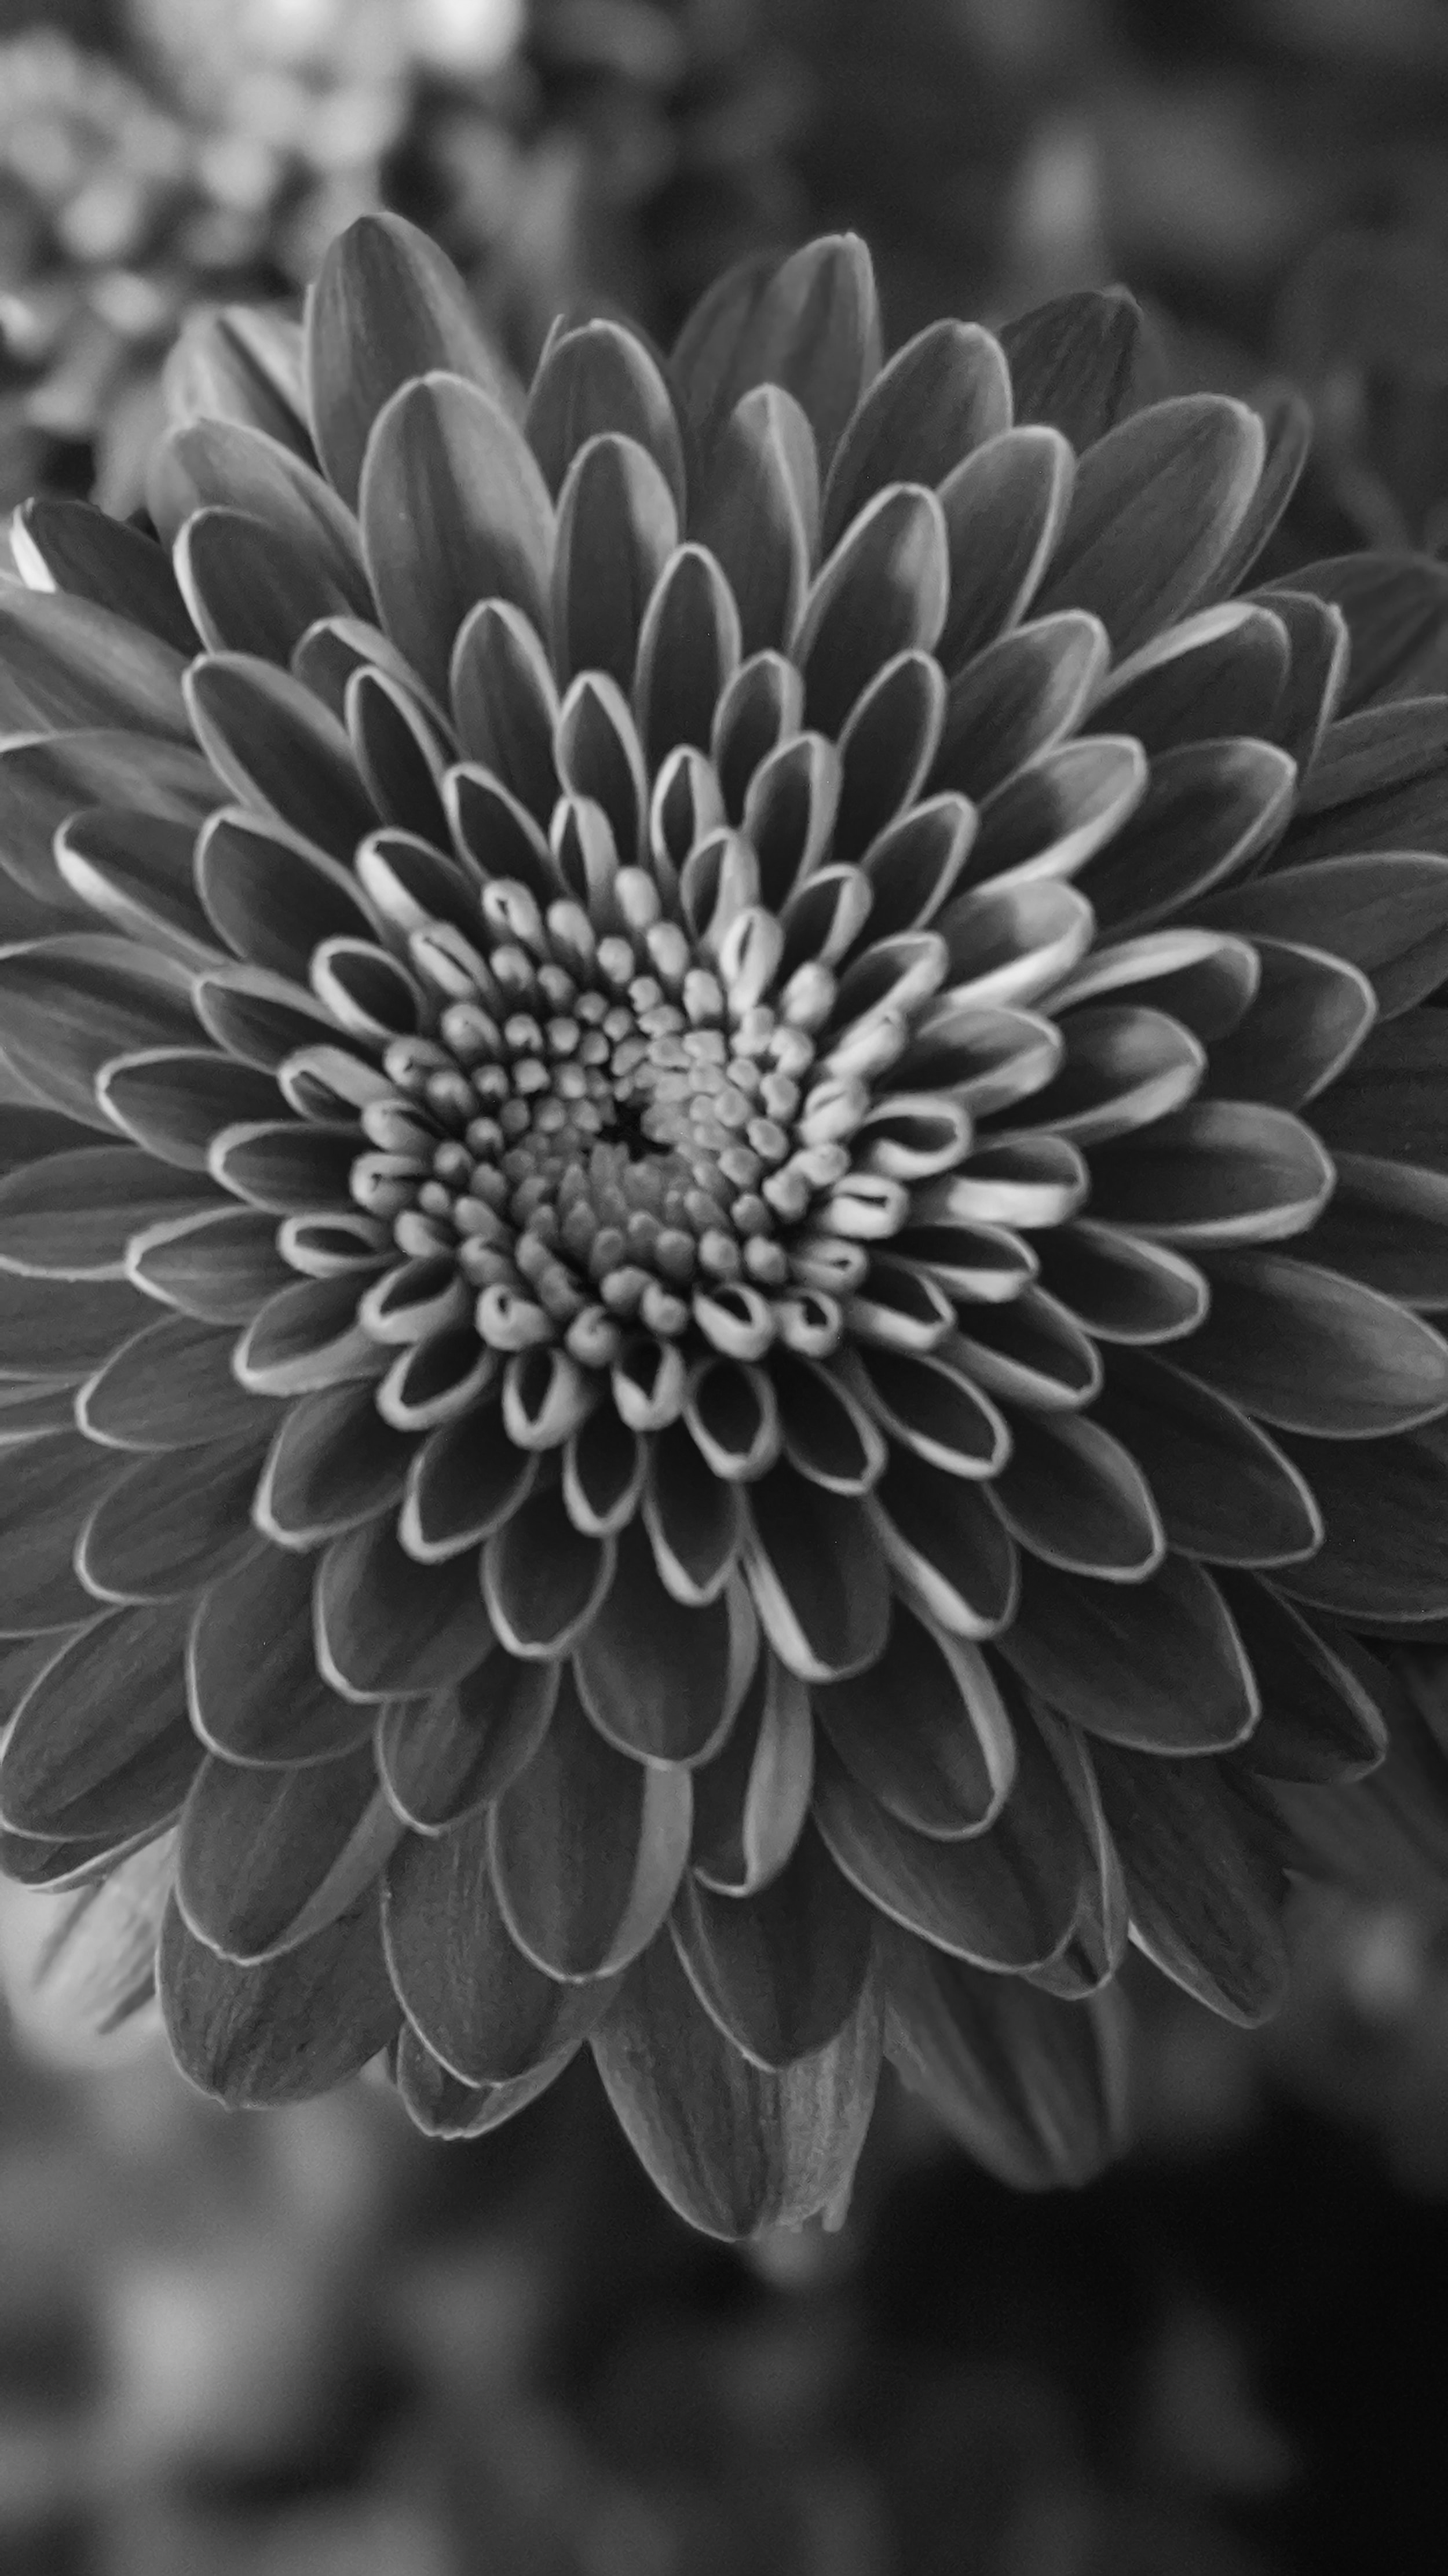
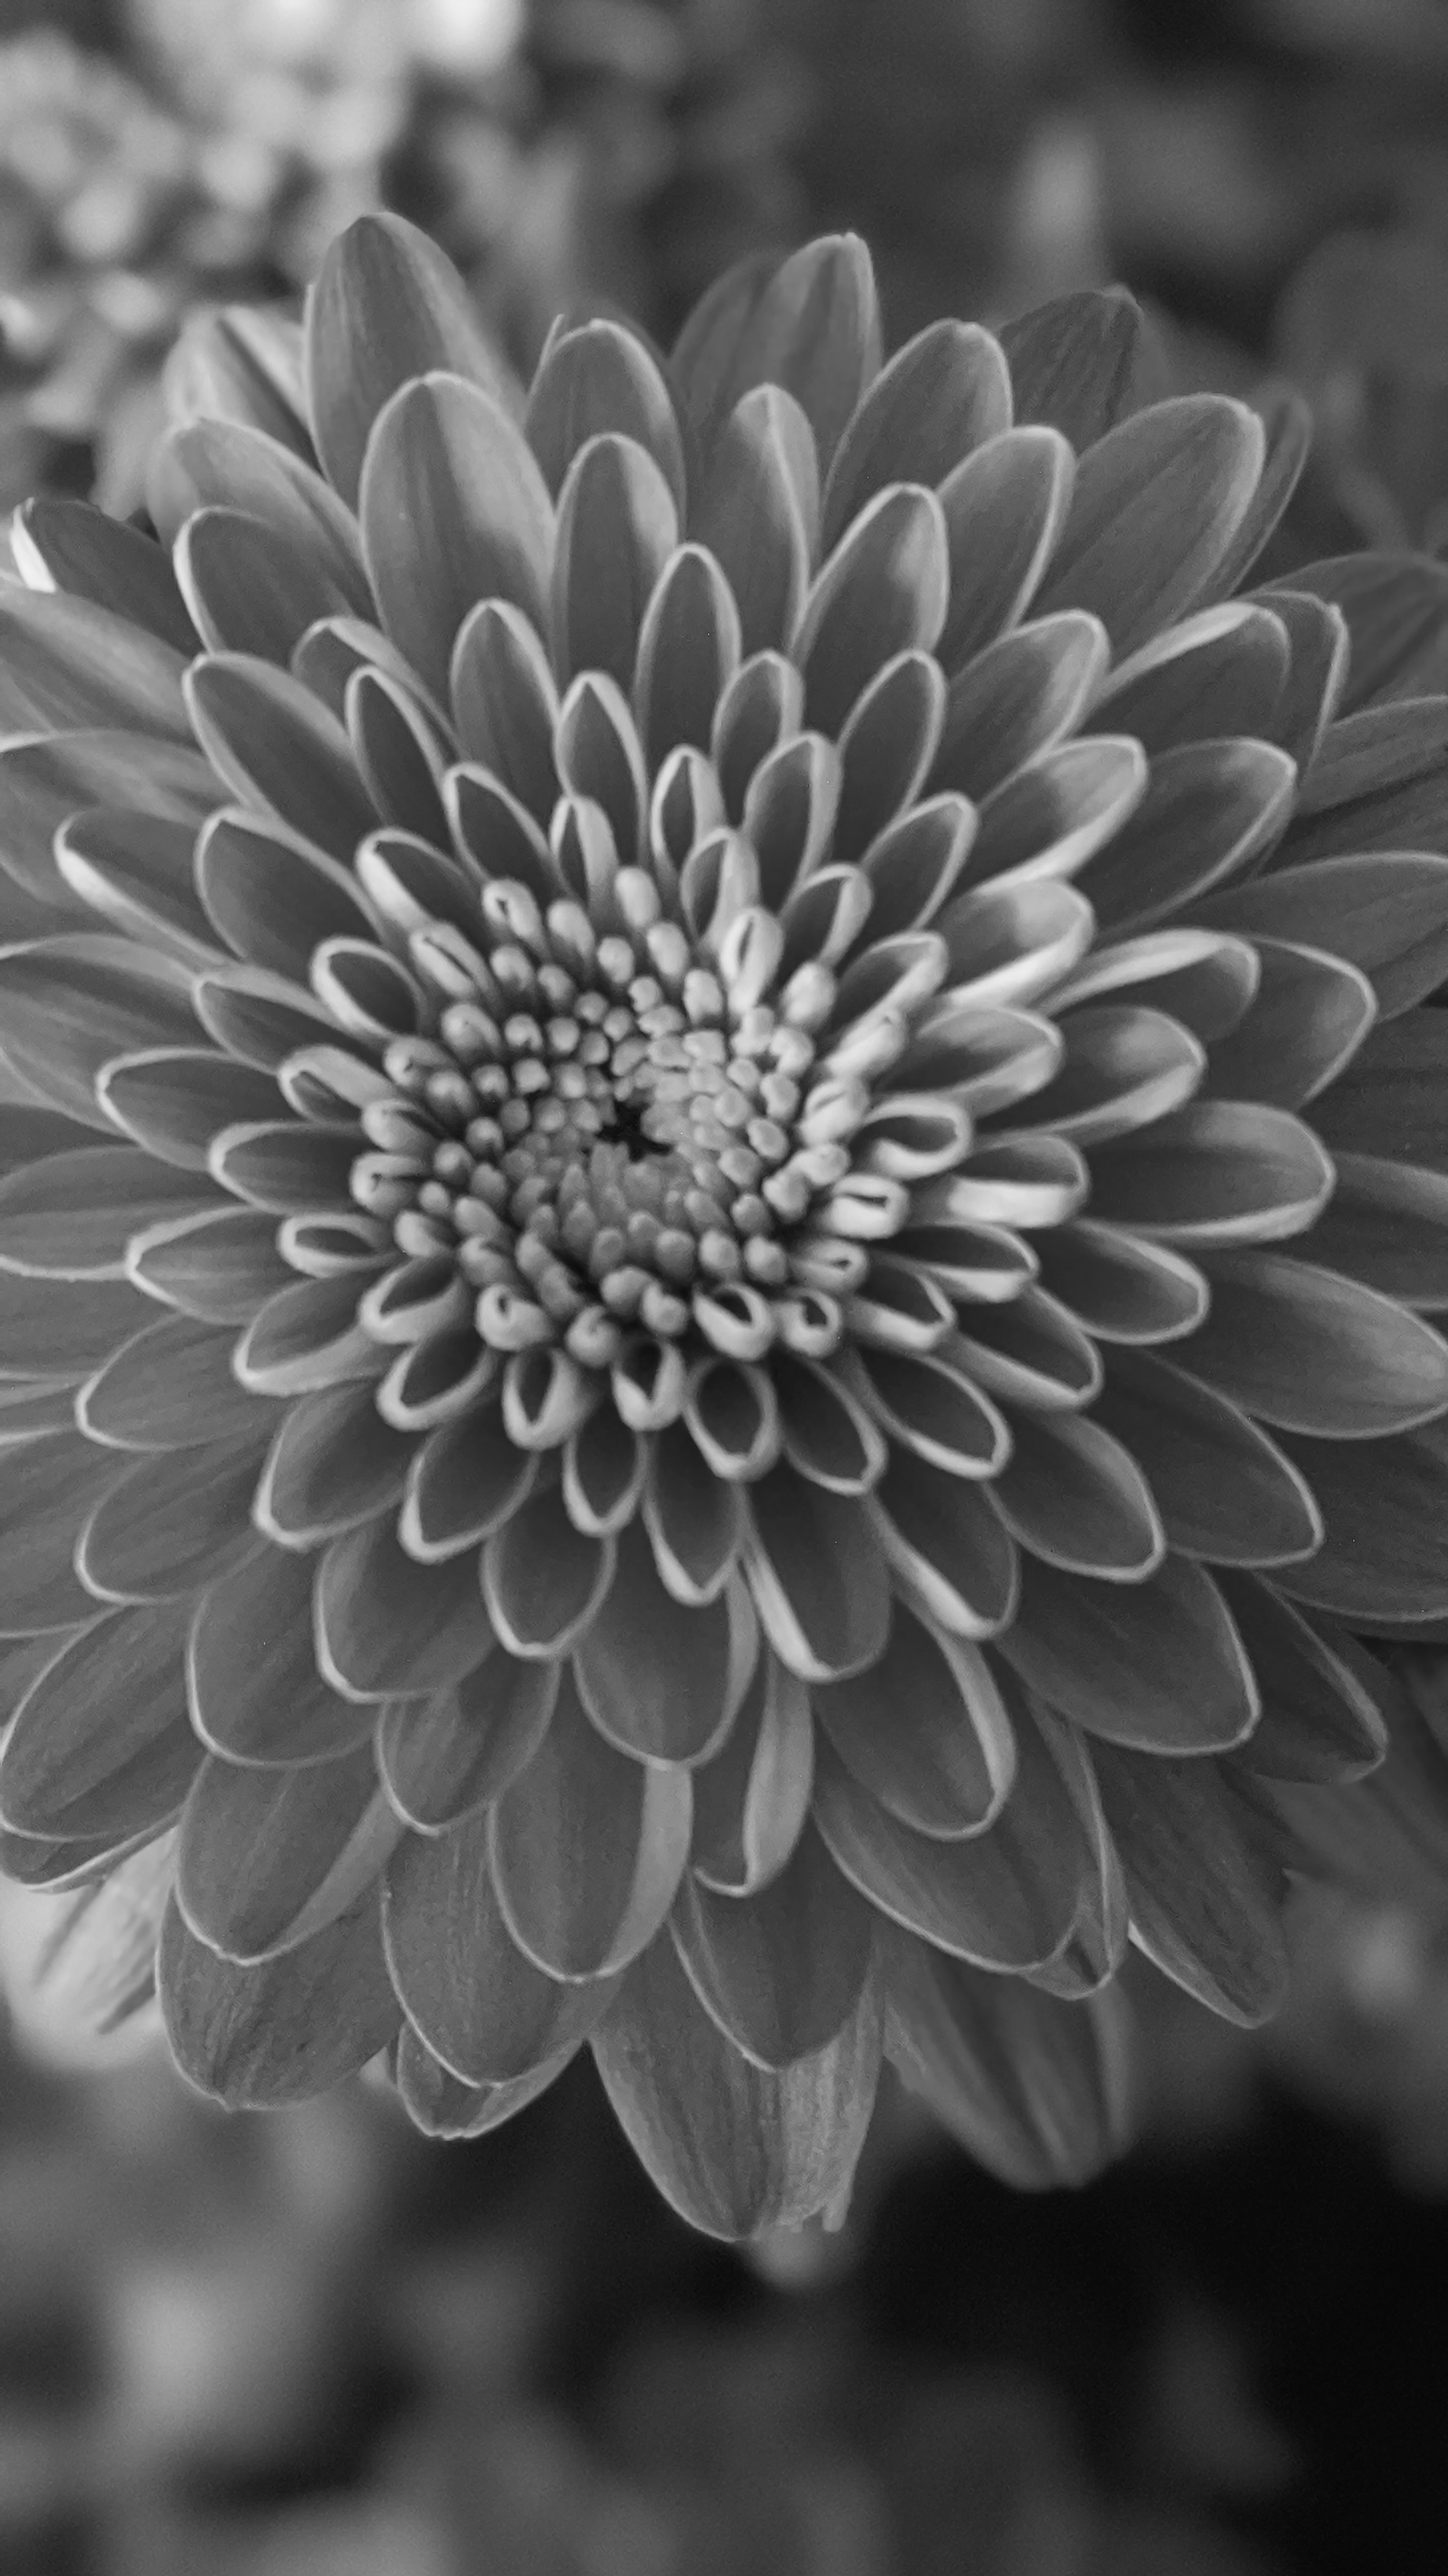
program seems to be working correctly. need to add plotting and clean up.

Changed region(s): [[0.0, 0.1242, 0.9672, 0.8382], [0.0, 0.1242, 0.0312, 0.1552]]

diff --git a/Assignment1/tograyscale.py b/Assignment1/tograyscale.py
@@ -5,18 +5,12 @@
 import sys, os, cv2, numpy
 
 def print_usage():
-    print("Usage: \n\tpython3 histmatch.py <input_dir> <output_dir>\n")
+    print("Usage: \n\tpython3 tograyscale.py <input_dir> <output_dir>\n")
     exit()
 
 def color2gray(input_dir,output_dir):
-    # check if directory exists -- done
-    # open input directory and get the list of images -- done
-    # see if output directory exists, if not create it -- done
-    # for each image:
-    # open image, convert to grayscale
-    # save image to the output directory
 
-    # add '/' to end of directory if it is not included
+    # add '/' to end of input directory if it is not included
     if not(input_dir[-1] == '/'):
         input_dir = input_dir + '/'
 
@@ -25,10 +19,12 @@ def color2gray(input_dir,output_dir):
         print("Input directory \"%s\" does not exist." %input_dir)
         print_usage()
 
+    # add '/' to end of output directory if it is not included
     if not(output_dir[-1] == '/'):
         output_dir = output_dir + '/'
 
     # if output directory does not exist, create it
+    # *** need to check for valid directory?
     if not(os.path.exists(output_dir)):
         os.makedirs(output_dir)
 
@@ -39,10 +35,11 @@ def color2gray(input_dir,output_dir):
     if len(inputFiles) == 0:
         print("No input images to convert.")
         exit()
+
+    convertedCount = 0  # number of images converted from RGB to grayscale
     
     # loop through files in the directory
     for fileName in inputFiles:
-        print("Image: " + input_dir + fileName)
         # check if the file is an image by trying to read it
         try:
             # docs: https://docs.opencv.org/4.2.0/d4/da8/group__imgcodecs.html
@@ -51,7 +48,6 @@ def color2gray(input_dir,output_dir):
 
             # check if image is rgb
             h,w,c = img.shape
-            print("Image dimensions: %d,%d,%d" % (h,w,c)) #DELETE ME
             
             if not(c == 3):
                 # could not read image or image is not RGB
@@ -60,20 +56,22 @@ def color2gray(input_dir,output_dir):
             # normalize RGB range to [0,255]
             cv2.normalize(img, img, 0, 255, cv2.NORM_MINMAX)
 
-            # DELETE ME
-            ctrimg = cv2.cvtColor(img,cv2.COLOR_BGR2GRAY)
-            cv2.imwrite(output_dir+"ctrl"+fileName,ctrimg)
-
             # convert to gray
-            # use RGB weights of [0.07,0.72,0.21]
-            grayimg = 0.21*img[:,:,0]+0.72*img[:,:,1]+0.07*img[:,:,2]
+            # use RGB weights of [0.3,0.59,0.11]
+            # https://www.tutorialspoint.com/dip/grayscale_to_rgb_conversion.html
+            # https://docs.opencv.org/2.4/modules/imgproc/doc/miscellaneous_transformations.html?highlight=cvtcolor
+            grayimg = 0.114*img[:,:,0]+0.587*img[:,:,1]+0.299*img[:,:,2]
 
             cv2.imwrite(output_dir+fileName,grayimg)
+            print("Converted: " + input_dir + fileName)
 
+            convertedCount = convertedCount + 1
 
         except IOError:
             # do nothing, file is not a valid image
             continue
+
+    print("Done. Converted %d images to grayscale." % convertedCount)
 
 
 def main(argv):

diff --git a/Assignment1/histmatch.py b/Assignment1/histmatch.py
@@ -1,0 +1,78 @@
+# ECE 471 - Assingment 1
+# Geena Smith
+# V00835915
+
+# using the returned mapping function F, transform input_image
+
+import sys, os, cv2, matplotlib.pyplot as plt, numpy as np
+from match_histograms import match_histograms
+
+# 1. create linear cumulative histogram Href
+# 2. use match_histograms function to create a mapping function F and return it
+# 3. use mapping function F to transform the input_image
+# 4. save transformed image as <input_image_name>-histeq.png
+# 5. plot the histogram of your transformed image (you may use the prohibited functions for this task)
+
+# Href is the linear cumulative reference histogram
+# nref is the number of pixels in the image
+
+def print_usage():
+    print("Usage: \n\tpython3 histmatch.py <input_image_name>\n")
+    exit()
+
+def create_Href():
+    Href = np.zeros(256)
+    for i in range(0,256):
+        Href[i] = i * 1
+    return Href
+
+def main(argv):
+    # print("hello world")
+    if not(len(argv) == 1):
+        print("Incorrect number of input arguments.")
+        print_usage()
+
+    # open image and check that it is grayscale
+    try:
+        img = cv2.imread(str(argv[0]),0)
+        cv2.normalize(img, img, 0, 255, cv2.NORM_MINMAX)  # normalize to between 0 and 255
+    except IOError:
+        print("Could not open image.")
+        exit()
+    h,w = img.shape
+    # print("original image has "+str(c)+" channels")
+    # if c == 3:
+    #     print(c)
+    #     print("Image is not grayscale.")
+    #     exit()
+    # nPixels = h*w
+
+    # create linear cumulative histogram Href
+    Href = create_Href()
+    nref = 255
+
+    # call 
+    F = match_histograms(img, Href, nref)
+
+    newhist = np.zeros(256)
+
+    output_image = img.copy()
+    height,width = output_image.shape
+    for y in range(0,width):
+        for x in range(0,height):
+            pixelval = img[x,y]
+            output_image[x,y] = F[pixelval]
+            newhist[output_image[x,y]] += 1
+
+    # plt.plot(newhist)
+    # plt.show()
+
+
+    cv2.imshow("title",np.concatenate((img,output_image[:,:]),axis=1))
+    cv2.waitKey(0)
+    cv2.destroyAllWindows()
+
+
+
+if __name__ == "__main__":
+    main(sys.argv[1:])

diff --git a/Assignment1/match_histograms.py b/Assignment1/match_histograms.py
@@ -1,0 +1,49 @@
+# ECE 471 - Assingment 1
+# Geena Smith
+# V00835915
+
+# matchHistograms(pixels,width,height,Href,nref)
+#   n <-- width*height
+#   r <-- n/nref
+#   h <-- (non)-cumulative histogram of the pixels array
+#   F <-- integer array of size 256, initialized to 0
+#   initialize i,j,c to 0
+#   while i < 256 do
+#       if c <= r*Href[j] then
+#           c <-- c+h[i]
+#           F[i] <-- j
+#           i ++
+#       else
+#           j++
+#       end if
+#   end while
+# return F
+# end procedure
+
+import sys, os, cv2, matplotlib.pyplot as plt, numpy as np
+
+def match_histograms(input_image, Href, nref):
+    height,width = input_image.shape
+    n = width*height
+    r = n/nref
+    h = np.zeros(256)  #histogram of input_image
+    for y in range(0,width):
+        for x in range(0,height):
+            pixelval = input_image[x,y]
+            h[pixelval] = h[pixelval] + 1
+    # plt.plot(h)
+    # plt.show()
+
+    F = np.zeros(256)
+    i = 0
+    j = 0
+    c = 0
+
+    while i < 256:
+        if c <= (r*Href[j]):
+            c = c+h[i]
+            F[i] = j
+            i+=1
+        else:
+            j += 1
+    return F
